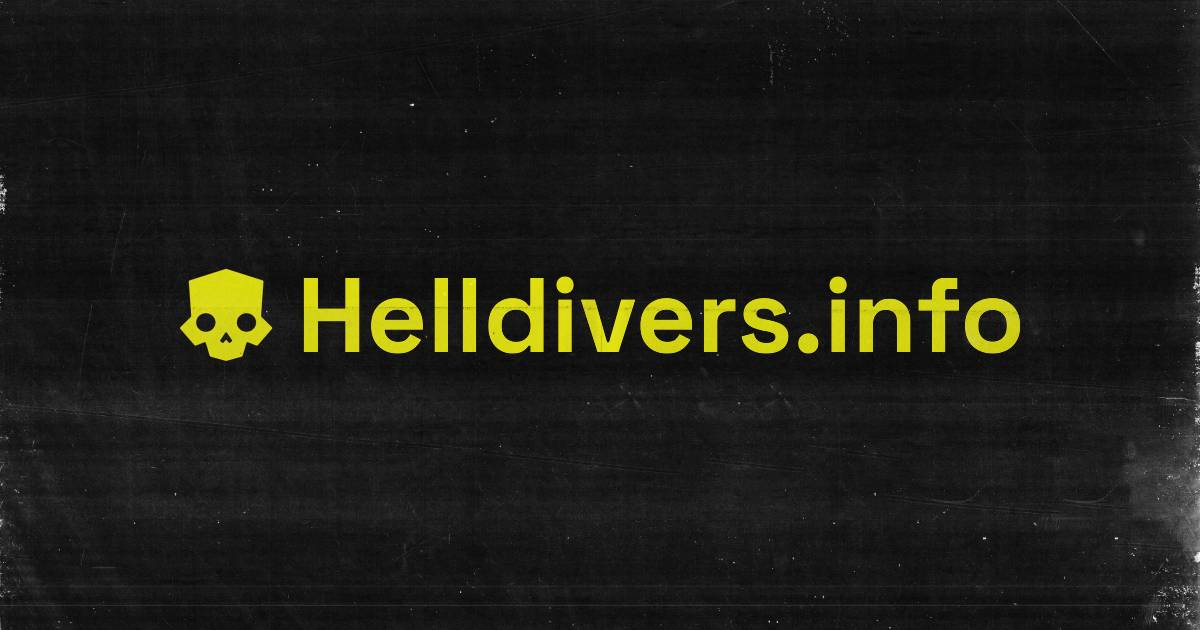
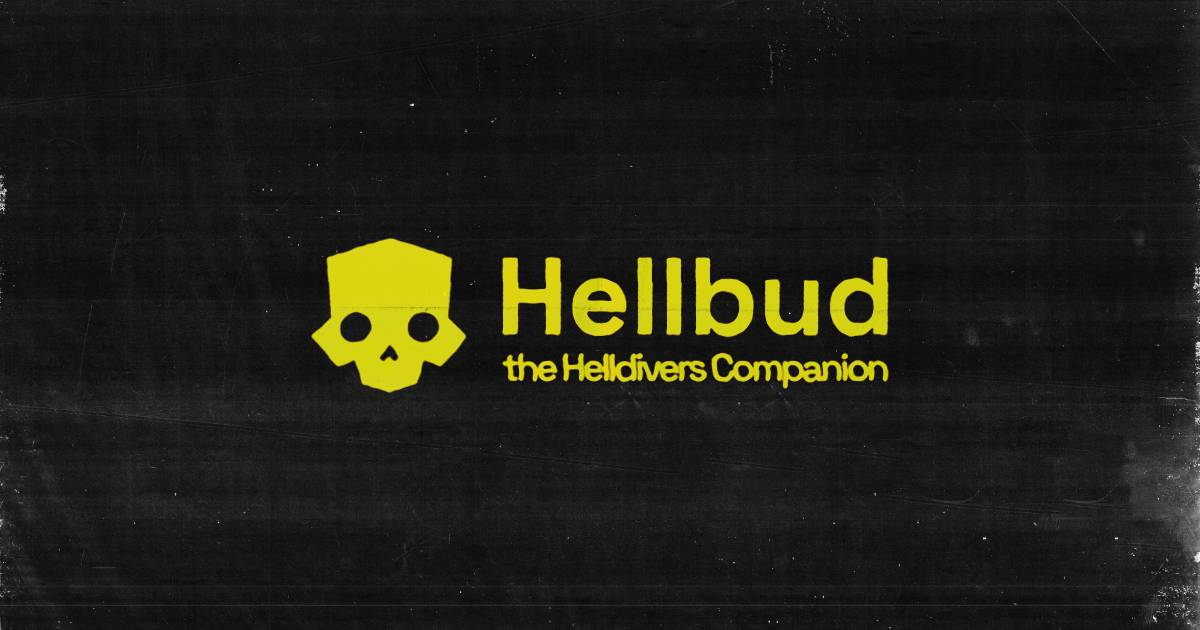
24.03.31
- updated readme
	- added github workflow to push repo to private repository for vercel hosting
	- updated opengraph image and added mockup
	- updated website description
	- added Scrollareas to comment section

Changed region(s): [[0.1542, 0.3619, 0.8633, 0.6333]]

diff --git a/src/components/giscusComponent.tsx b/src/components/giscusComponent.tsx
@@ -21,6 +21,7 @@ import {
   SheetTrigger,
 } from "@/components/ui/sheet";
 import { Button } from "@/components/ui/button";
+import { ScrollArea } from "@/components/ui/scroll-area";
 
 import { IoChatbubblesOutline } from "react-icons/io5";
 
@@ -39,35 +40,11 @@ export default function Comments({ keyword, reactions }: InfoDialogProps) {
           </Button>
         </SheetTrigger>
         <SheetContent className="z-[2000]">
-          <Giscus
-            id="comments"
-            repo="Mixhi1845/HelldiversCompanion"
-            repoId="R_kgDOLhSEpQ="
-            category="Comments"
-            categoryId="DIC_kwDOLhSEpc4CeV8r"
-            mapping="specific"
-            term={keyword}
-            reactionsEnabled={reactions}
-            emitMetadata="0"
-            inputPosition="top"
-            theme="preferred_color_scheme"
-            lang="en"
-            loading="lazy"
-          />
-        </SheetContent>
-      </Sheet>
-      <Drawer>
-        <DrawerTrigger className="block w-full sm:hidden">
-          <Button variant="outline" className="w-full">
-            <IoChatbubblesOutline className="mr-2 size-4" /> Comment on this
-          </Button>
-        </DrawerTrigger>
-        <DrawerContent className="z-[2000]">
-          <div className="p-4">
+          <ScrollArea className="size-full">
             <Giscus
               id="comments"
-              repo="Mixhi1845/HelldiversCompanion"
-              repoId="R_kgDOLhSEpQ="
+              repo="helldivers-2/companion"
+              repoId="R_kgDOLhSEpQ"
               category="Comments"
               categoryId="DIC_kwDOLhSEpc4CeV8r"
               mapping="specific"
@@ -79,6 +56,34 @@ export default function Comments({ keyword, reactions }: InfoDialogProps) {
               lang="en"
               loading="lazy"
             />
+          </ScrollArea>
+        </SheetContent>
+      </Sheet>
+      <Drawer>
+        <DrawerTrigger className="block w-full sm:hidden">
+          <Button variant="outline" className="w-full">
+            <IoChatbubblesOutline className="mr-2 size-4" /> Comment on this
+          </Button>
+        </DrawerTrigger>
+        <DrawerContent className="z-[2000]">
+          <div className="p-4">
+            <ScrollArea className="size-full">
+              <Giscus
+                id="comments"
+                repo="Mixhi1845/HelldiversCompanion"
+                repoId="R_kgDOLhSEpQ="
+                category="Comments"
+                categoryId="DIC_kwDOLhSEpc4CeV8r"
+                mapping="specific"
+                term={keyword}
+                reactionsEnabled={reactions}
+                emitMetadata="0"
+                inputPosition="top"
+                theme="preferred_color_scheme"
+                lang="en"
+                loading="lazy"
+              />
+            </ScrollArea>
           </div>
         </DrawerContent>
       </Drawer>

diff --git a/src/components/widgets/leaderboard.tsx b/src/components/widgets/leaderboard.tsx
@@ -42,7 +42,7 @@ export default async function Leaderboard() {
   const scores = await officialLeaderboardAPI();
 
   return (
-    <Card className="w-full">
+    <Card className="w-full border border-primary bg-muted">
       <CardHeader className="flex flex-col gap-1.5 md:flex-row md:items-center md:gap-4">
         <div className="grid gap-1.5">
           <CardTitle>Leaderboard</CardTitle>
@@ -52,11 +52,11 @@ export default async function Leaderboard() {
           </CardDescription>
         </div>
       </CardHeader>
-      <CardContent className="p-0">
-        <div className="overflow-hidden rounded-lg border">
+      <CardContent className=" p-0">
+        <div className="overflow-hidden rounded-lg border border-background">
           <Table className="w-full">
             <TableHeader>
-              <TableRow className="dark:bg-gray-850 bg-muted">
+              <TableRow className="">
                 <TableHead className="w-12">Rank</TableHead>
                 <TableHead>Player</TableHead>
                 <TableHead className="w-24">Experience</TableHead>
@@ -65,7 +65,7 @@ export default async function Leaderboard() {
             </TableHeader>
             <TableBody className="divide-y">
               {scores.entries.map((score: Score, index: number) => (
-                <TableRow key={index} className="font-medium">
+                <TableRow key={index} className="bg-background font-medium">
                   <TableCell>{score.rank}</TableCell>
                   <TableCell>{score.name}</TableCell>
                   <TableCell className="text-muted-foreground">

diff --git a/src/app/layout.tsx b/src/app/layout.tsx
@@ -21,7 +21,8 @@ export const metadata = {
     default: "Helldivers Info",
     template: "%s | Helldivers Info",
   },
-  description: "Relevant information for the democratic game Helldivers 2.",
+  description:
+    "Dive into Hellbud, your comprehensive companion for Helldivers 2. Explore current targets, plan deployments on the galaxy map, and access a vast item database and see the item shop. Stay updated with patch notes, participate in major orders, and engage with the community.",
   icons: {
     icon: "/favicon.ico",
     shortcut: "/icons/favicon-16x16.png",

diff --git a/src/components/nav.tsx b/src/components/nav.tsx
@@ -51,9 +51,7 @@ export default function Navbar() {
                     className="mr-2 size-6"
                     alt="Logo"
                   />
-                  <span className="flex text-xl font-bold">
-                    HELLDIVERS Info
-                  </span>
+                  <span className="flex text-xl font-bold">Hellbud</span>
                 </Link>
                 <div className="website block md:hidden">
                   <ThemeToggle />

diff --git a/src/components/widgets/latestOrder.tsx b/src/components/widgets/latestOrder.tsx
@@ -25,7 +25,7 @@ export default async function MajorOrder() {
   return (
     <div className="w-full bg-background">
       <div className="grid grid-cols-1 gap-4 md:grid-cols-4">
-        <div className="col-span-1  rounded-r-lg border p-4 md:col-span-2">
+        <div className="col-span-1 rounded-lg border p-4 md:col-span-2">
           <p>
             <span className="font-bold text-primary">
               {order.warSeason.assignment.setting.overrideBrief}

diff --git a/src/app/leaderboard/page.tsx b/src/app/leaderboard/page.tsx
@@ -7,9 +7,5 @@ export const metadata: Metadata = {
 };
 
 export default function LeaderboardPage() {
-  return (
-    <Container title="Leaderboard">
-      <Leaderboard />
-    </Container>
-  );
+  return <Leaderboard />;
 }

diff --git a/README.md b/README.md
@@ -1,6 +1,8 @@
-# Hellbud - Helldivers Companion
+# Hellbud - a Helldivers 2 Companion
 
-Welcome to the Hellbud repository! This Next.js website provides comprehensive information for the game Helldivers 2 through APIs and ways. Below you'll find an overview of the features and pages available on this site.
+Welcome to the Hellbud repository! This Next.js website provides comprehensive information for the game Helldivers 2 through APIs. Below you'll find an overview of the features and pages available on this site.
+
+<img src="https://github.com/helldivers-2/companion/blob/master/public/mockup.webp?raw=true" alt="Hero Section Image of the Repo. Hellbud - Helldivers 2 Companion" width="1000" height="667">
 
 ## Features and Pages
 
